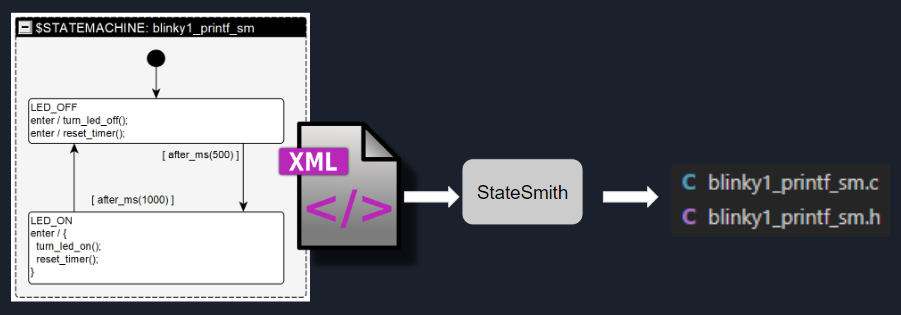
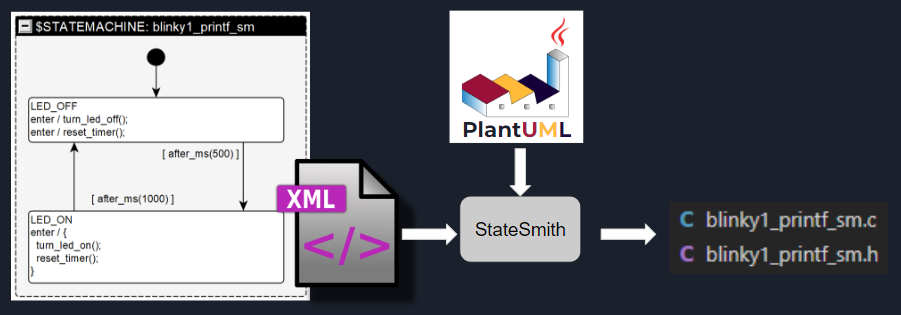
docs - workflow image, plantuml and what's new

diff --git a/docs/plantuml-input.md b/docs/plantuml-input.md
@@ -1,8 +1,8 @@
 # PlantUML input
 
-All the features I've ever needed are supported (I used to generate PlantUML diagrams), but we can add more if needed.
+Initial support has been added and is working in the examples below. Please open a ticket or comment on [issue 21](https://github.com/StateSmith/StateSmith/issues/21) if you run into any problems or need additional features.
 
-https://plantuml.com/state-diagram
+The workflow is the exact same. Just feed StateSmith a PlantUML input file (extension must be one of ".pu", ".puml", ".plantuml") instead of the yEd .graphml file.
 
 ## Examples
 - [blinky1_printf_sm.plantuml](../examples/Blinky1Printf/src/blinky1_printf_sm.plantuml)
@@ -40,3 +40,6 @@ StateSmith Runner - finished with failure.
 
 ## Grammar
 ANTLR4 grammar: [../antlr/PlantUML.g4](../antlr/PlantUML.g4)
+
+## New to PlantUML?
+https://plantuml.com/state-diagram

diff --git a/README.md b/README.md
@@ -5,12 +5,10 @@ StateSmith will one day generate code for multiple different languages, but for 
 
 ![picture 5](images/workflow-1.png)  
 
+# What's new?
+See [main changelog](CHANGELOG.md) or [dev changelog](https://github.com/StateSmith/StateSmith/blob/dev/CHANGELOG.md).
 
-# PlantUML input coming!
-A fair number of people would like to avoid using a GUI for designing their state machines so I'm adding support for PlantUML input
-https://github.com/StateSmith/StateSmith/issues/21 .
-
-StateSmith will continue to support GUI diagram files which are super helpful for larger designs.
+Pinned issues and feature branches show what's in the works.
 
 ## Demo
 Here's a demo [youtube video](https://www.youtube.com/watch?v=9czSDothuzM) showing a Laser Tag menu implemented with StateSmith and running in an Arduino simulation.

diff --git a/CHANGELOG.md b/CHANGELOG.md
@@ -6,7 +6,8 @@ and this project adheres to [Semantic Versioning](https://semver.org/spec/v2.0.0
 
 ## WIP
 ### Added
-- Support PlantUML input as an alternative to yEd. Input file extension must be one of ".pu", ".puml", ".plantuml"
+- Support [PlantUML input](./docs/plantuml-input.md) as an alternative to yEd input.
+  Input file extension must be one of ".pu", ".puml", ".plantuml"
   https://github.com/StateSmith/StateSmith/issues/21
 
 ## [0.5.5-alpha]
